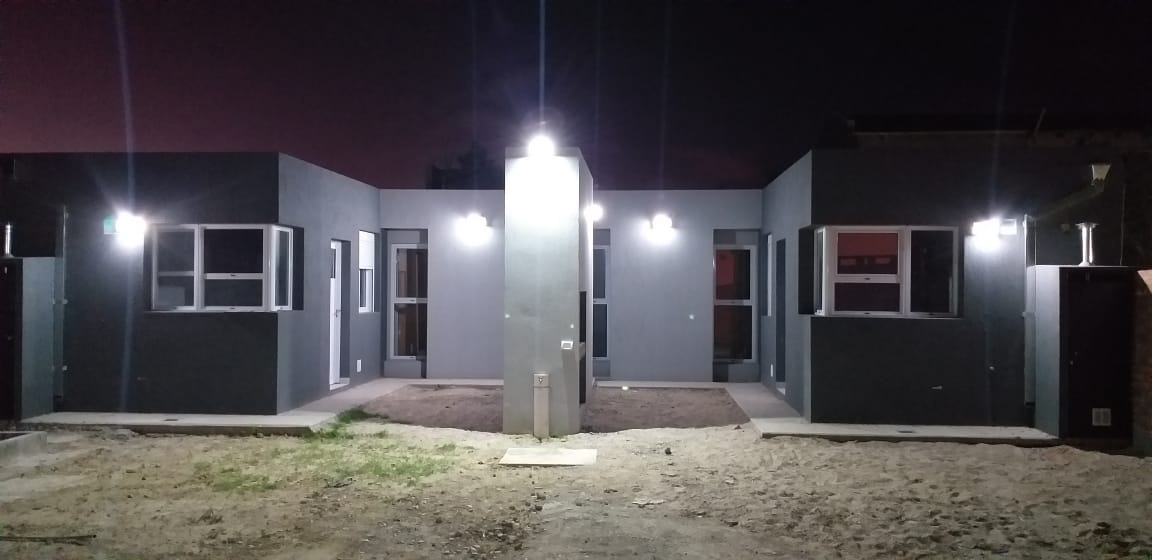
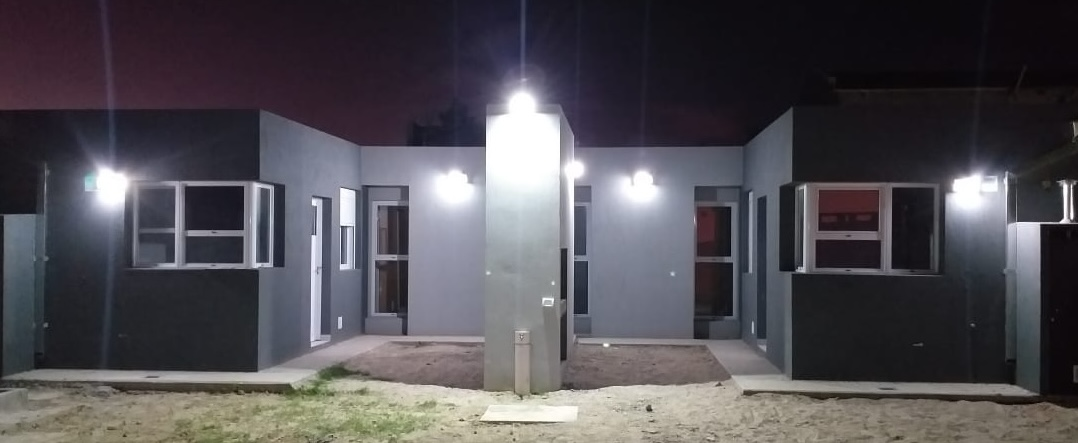
Finalize hero photos and remove superseded image folders

diff --git a/css/styles.css b/css/styles.css
@@ -62,7 +62,7 @@ body.gallery-open{overflow:hidden}.gallery-dialog{width:min(900px,calc(100vw - 3
 .gallery-thumbnails{justify-content:flex-start}.gallery-thumbnails button:first-child{margin-left:auto}.gallery-thumbnails button:last-child{margin-right:auto}
 
 /* El encuadre del último slide prioriza la vereda. */
-.hero[data-slide-index="5"]{background-image:url("../images/slide/06-parsur-dos-018.jpg?v=straightened-1");background-size:cover;background-position:51% 78%}
+.hero[data-slide-index="5"]{background-image:url("../images/slide/06-parsur-dos-018.jpg?v=hero-final-2");background-size:cover;background-position:51% 78%}
 .hero-image[data-slide-index="5"]{object-position:51% 78%}
 
 .gallery-tile[data-gallery="mono"] img{object-position:center 60%}

diff --git a/index.html b/index.html
@@ -27,9 +27,9 @@
   <link rel="preconnect" href="https://fonts.googleapis.com">
   <link rel="preconnect" href="https://fonts.gstatic.com" crossorigin>
   <link href="https://fonts.googleapis.com/css2?family=Manrope:wght@400;500;600;700;800&display=swap" rel="stylesheet">
-  <link rel="stylesheet" href="css/styles.css?v=hero-straightened-1">
+  <link rel="stylesheet" href="css/styles.css?v=hero-final-2">
   <script src="js/photo-band-slides.js?v=exteriores-1" defer></script>
-  <script src="js/script.js?v=hero-straightened-1" defer></script>
+  <script src="js/script.js?v=hero-final-2" defer></script>
   <title>Parador Sur | Un descanso cerca del mar</title>
 </head>
 <body>

diff --git a/js/script.js b/js/script.js
@@ -92,8 +92,8 @@ const heroSlides = [
   { src: 'images/slide/02-patio-exterior-031.jpg' },
   { src: 'images/slide/03-dos-living.jpg' },
   { src: 'images/slide/04-mono-living.jpg' },
-  { src: 'images/slide/05-exterior-noche.jpg' },
-  { src: 'images/slide/06-parsur-dos-018.jpg?v=straightened-1' }
+  { src: 'images/slide/05-exterior-noche.jpg?v=hero-final-2' },
+  { src: 'images/slide/06-parsur-dos-018.jpg?v=hero-final-2' }
 ];
 const hero = document.querySelector('.hero');
 let heroImage = document.querySelector('#hero-image');
